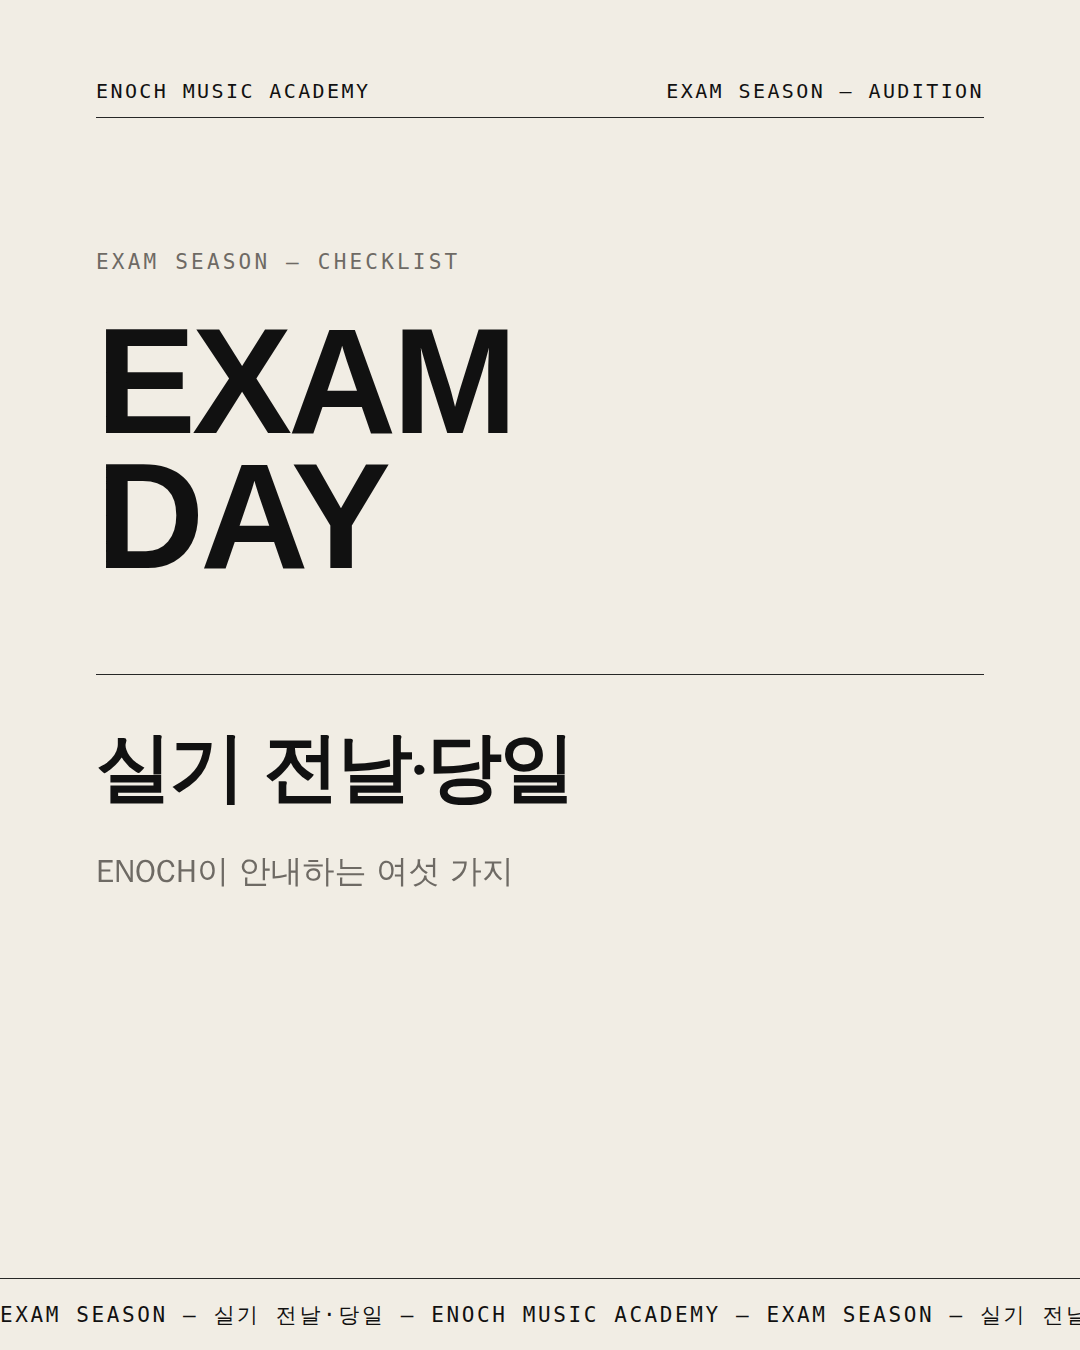
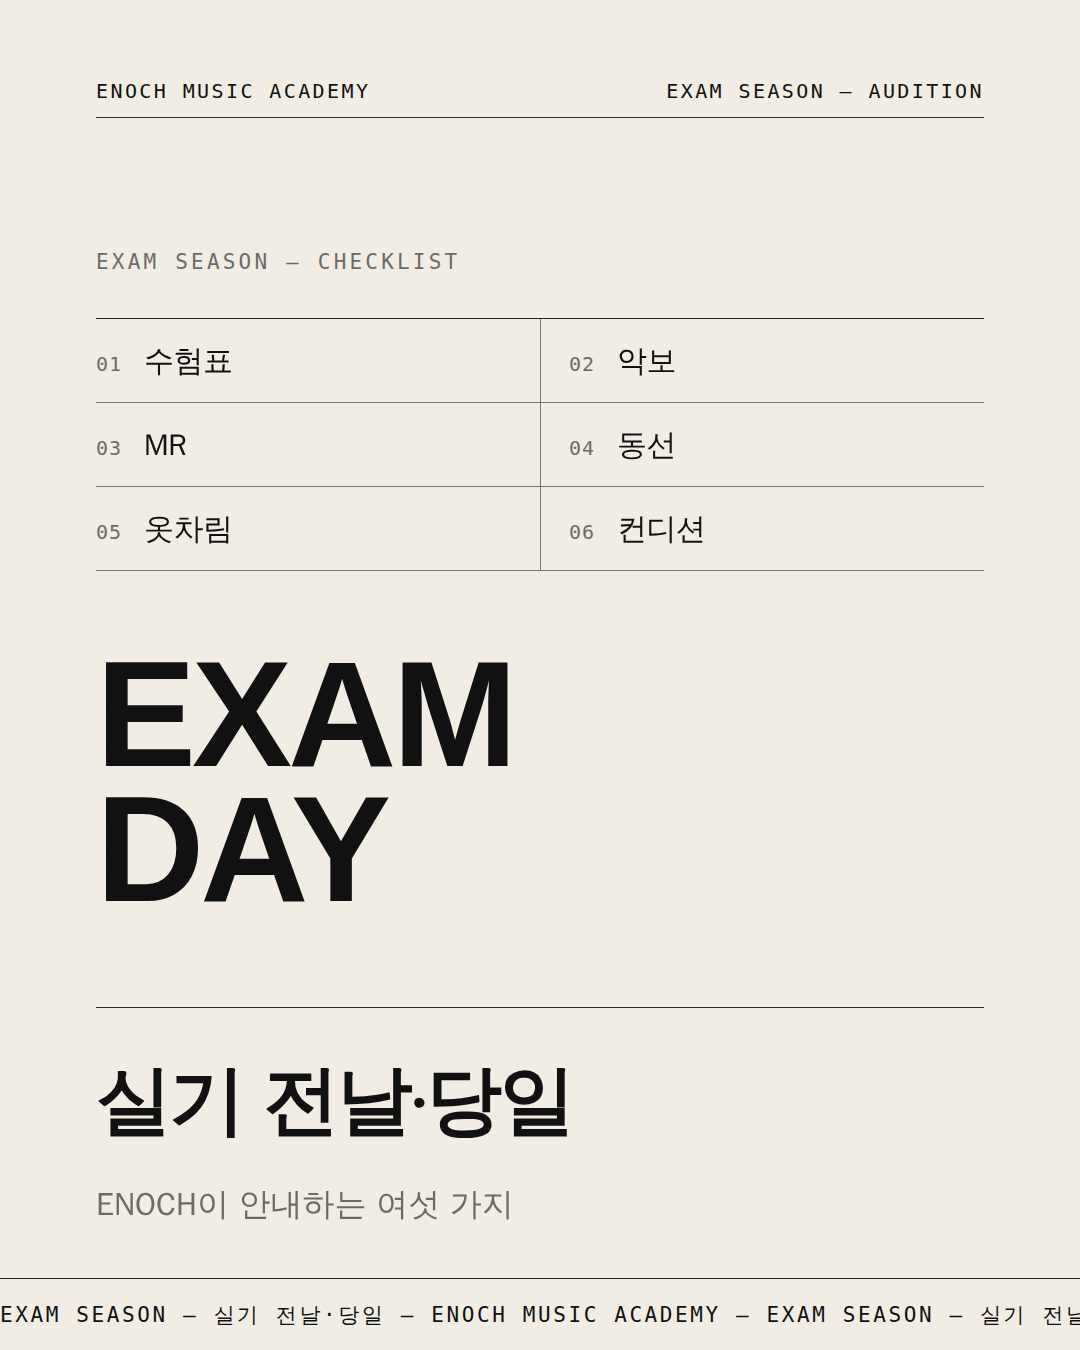
Add index grid to typecover and re-render exam-day checklist
Typecover takes an optional index list drawn as a two-column ruled grid
in the space above the title; brand-manifesto designer pass (cover text
anchored low, larger English title, principle spacing).

Claude-Session: https://claude.ai/code/session_01HGbZvgMeYrbU7mY8bwfjyb

diff --git a/output/입시_실기전날당일/preview.html b/output/입시_실기전날당일/preview.html
@@ -70,13 +70,18 @@ body { font-family: var(--ko); word-break: keep-all; -webkit-font-smoothing: ant
 
 /* ── typecover (사진 없는 표지) ─────────────── */
 .layout-typecover { padding-top: 250px; }
-.tc-en { margin-top: 40px; font-family: var(--en); font-size: 150px; font-weight: 700; line-height: .9; letter-spacing: -4px; text-transform: uppercase; white-space: pre-line; }
+.tc-en { margin-top: auto; font-family: var(--en); font-size: 150px; font-weight: 700; line-height: .9; letter-spacing: -4px; text-transform: uppercase; white-space: pre-line; }
 .tc-title { margin-top: 90px; padding-top: 44px; border-top: 1.5px solid var(--rule); font-size: 76px; font-weight: 800; line-height: 1.3; letter-spacing: -2.5px; white-space: pre-line; }
+.tc-index { margin-top: 44px; display: grid; grid-template-columns: 1fr 1fr; border-top: 1.5px solid var(--rule); }
+.tc-i { display: flex; align-items: baseline; gap: 22px; padding: 22px 0 20px; border-bottom: 1px solid var(--hair); }
+.tc-i:nth-child(even) { padding-left: 28px; border-left: 1px solid var(--hair); }
+.tc-n { font-family: var(--mono); font-size: 20px; letter-spacing: 1px; color: var(--sub); }
+.tc-l { font-size: 30px; font-weight: 700; letter-spacing: -0.5px; }
 .tc-sub { margin-top: 28px; font-size: 32px; font-weight: 300; color: var(--sub); line-height: 1.6; white-space: pre-line; }
 
 /* ── principle (원칙 한 장) ─────────────────── */
-.layout-principle { padding-top: 226px; }
-.pr-no { margin-top: 24px; font-family: var(--en); font-size: 260px; font-weight: 800; line-height: .8; letter-spacing: -10px; padding-bottom: 56px; border-bottom: 1.5px solid var(--rule); }
+.layout-principle { padding-top: 276px; }
+.pr-no { margin-top: 44px; font-family: var(--en); font-size: 260px; font-weight: 800; line-height: .8; letter-spacing: -10px; padding-bottom: 56px; border-bottom: 1.5px solid var(--rule); }
 .pr-title { margin-top: 56px; font-size: 70px; font-weight: 800; line-height: 1.32; letter-spacing: -2px; white-space: pre-line; }
 .pr-en { margin-top: 22px; font-family: var(--en); font-size: 32px; font-weight: 400; color: var(--sub); letter-spacing: -0.3px; }
 .pr-body { margin-top: 48px; }
@@ -211,6 +216,7 @@ body { font-family: var(--ko); word-break: keep-all; -webkit-font-smoothing: ant
 <body class="preview"><section class="card layout-typecover theme-ivory" id="card-1">
     <div class="masthead"><span>ENOCH MUSIC ACADEMY</span><span>EXAM SEASON — AUDITION</span></div>
     <div class="kicker">Exam Season — Checklist</div>
+    <div class="tc-index"><div class="tc-i"><span class="tc-n">01</span><span class="tc-l">수험표</span></div><div class="tc-i"><span class="tc-n">02</span><span class="tc-l">악보</span></div><div class="tc-i"><span class="tc-n">03</span><span class="tc-l">MR</span></div><div class="tc-i"><span class="tc-n">04</span><span class="tc-l">동선</span></div><div class="tc-i"><span class="tc-n">05</span><span class="tc-l">옷차림</span></div><div class="tc-i"><span class="tc-n">06</span><span class="tc-l">컨디션</span></div></div>
     <div class="tc-en" style="font-size:150px">Exam
 Day</div>
     <h1 class="tc-title">실기 전날·당일</h1>
@@ -228,9 +234,9 @@ Day</div>
     <div class="masthead"><span>ENOCH MUSIC ACADEMY</span><span>EXAM SEASON — AUDITION</span></div>
     <div class="kicker">Checklist 01–03</div><h2 class="title">챙길 것</h2>
     <div class="rows"><div class="r"><div class="no">01</div><div>
-        <div class="part-en">Admission Ticket<span>수험표</span></div><div class="part-t">시험장에 들어가는 데 필요한 것. 가방에 가장 먼저 넣어 둡니다.</div></div></div><div class="r"><div class="no">02</div><div>
+        <div class="part-en">Ticket<span>수험표</span></div><div class="part-t">시험장에 들어가는 데 필요한 것. 가방에 가장 먼저 넣어 둡니다.</div></div></div><div class="r"><div class="no">02</div><div>
         <div class="part-en">Score<span>악보</span></div><div class="part-t">시험에서 쓸 악보. 학교 안내에 맞게 준비했는지 한 번 더 봅니다.</div></div></div><div class="r"><div class="no">03</div><div>
-        <div class="part-en">Backing Track<span>MR</span></div><div class="part-t">시험에서 틀 반주. 연습 때 맞춰 온 그 음원인지 확인합니다.</div></div></div></div>
+        <div class="part-en">Track<span>MR</span></div><div class="part-t">시험에서 틀 반주. 연습 때 맞춰 온 그 음원인지 확인합니다.</div></div></div></div>
     <div class="colophon"><span>실기  實技</span><span class="page">03 / 07</span></div>
   </section>
 <section class="card layout-parts theme-ivory" id="card-4">

diff --git a/templates/card.css b/templates/card.css
@@ -71,6 +71,11 @@ body { font-family: var(--ko); word-break: keep-all; -webkit-font-smoothing: ant
 .layout-typecover { padding-top: 250px; }
 .tc-en { margin-top: auto; font-family: var(--en); font-size: 150px; font-weight: 700; line-height: .9; letter-spacing: -4px; text-transform: uppercase; white-space: pre-line; }
 .tc-title { margin-top: 90px; padding-top: 44px; border-top: 1.5px solid var(--rule); font-size: 76px; font-weight: 800; line-height: 1.3; letter-spacing: -2.5px; white-space: pre-line; }
+.tc-index { margin-top: 44px; display: grid; grid-template-columns: 1fr 1fr; border-top: 1.5px solid var(--rule); }
+.tc-i { display: flex; align-items: baseline; gap: 22px; padding: 22px 0 20px; border-bottom: 1px solid var(--hair); }
+.tc-i:nth-child(even) { padding-left: 28px; border-left: 1px solid var(--hair); }
+.tc-n { font-family: var(--mono); font-size: 20px; letter-spacing: 1px; color: var(--sub); }
+.tc-l { font-size: 30px; font-weight: 700; letter-spacing: -0.5px; }
 .tc-sub { margin-top: 28px; font-size: 32px; font-weight: 300; color: var(--sub); line-height: 1.6; white-space: pre-line; }
 
 /* ── principle (원칙 한 장) ─────────────────── */

diff --git a/templates/SLIDES_SCHEMA.md b/templates/SLIDES_SCHEMA.md
@@ -35,7 +35,7 @@
 | layout | 필드 | 용도 |
 |---|---|---|
 | `principle` | `kicker`, `no`(예 `01`), `title`(원칙 문장), `en`?(영문 한 줄), `body`?(풀이, 문자열 또는 배열) | 원칙·선언 한 장에 하나 |
-| `typecover` | `kicker`, `en`(큰 영문, `\n` 가능 — 글자 수에 맞춰 크기 자동), `title`(굵은 한글), `sub`?, `ticker`? | 사진 없는 표지 — 정보형·철학·입시 편 (ENOCH ISSUE 표지에는 쓰지 않음) |
+| `typecover` | `kicker`, `index`?(목차 항목 배열 — 위쪽 빈 자리에 2열 격자로), `en`(큰 영문, `\n` 가능 — 글자 수에 맞춰 크기 자동), `title`(굵은 한글), `sub`?, `ticker`? | 사진 없는 표지 — 정보형·철학·입시 편 (ENOCH ISSUE 표지에는 쓰지 않음) |
 | `point` | `kicker`, `title`, `body` (문자열 또는 배열) | 한 장 한 메시지 |
 | `chords` | `kicker`, `title`, `chords`[{roman, name, notes, fn}], `body`? | 코드 진행 |
 | `photo` | `image`, `title`?, `body`? | 실제 사진 한 장 |
